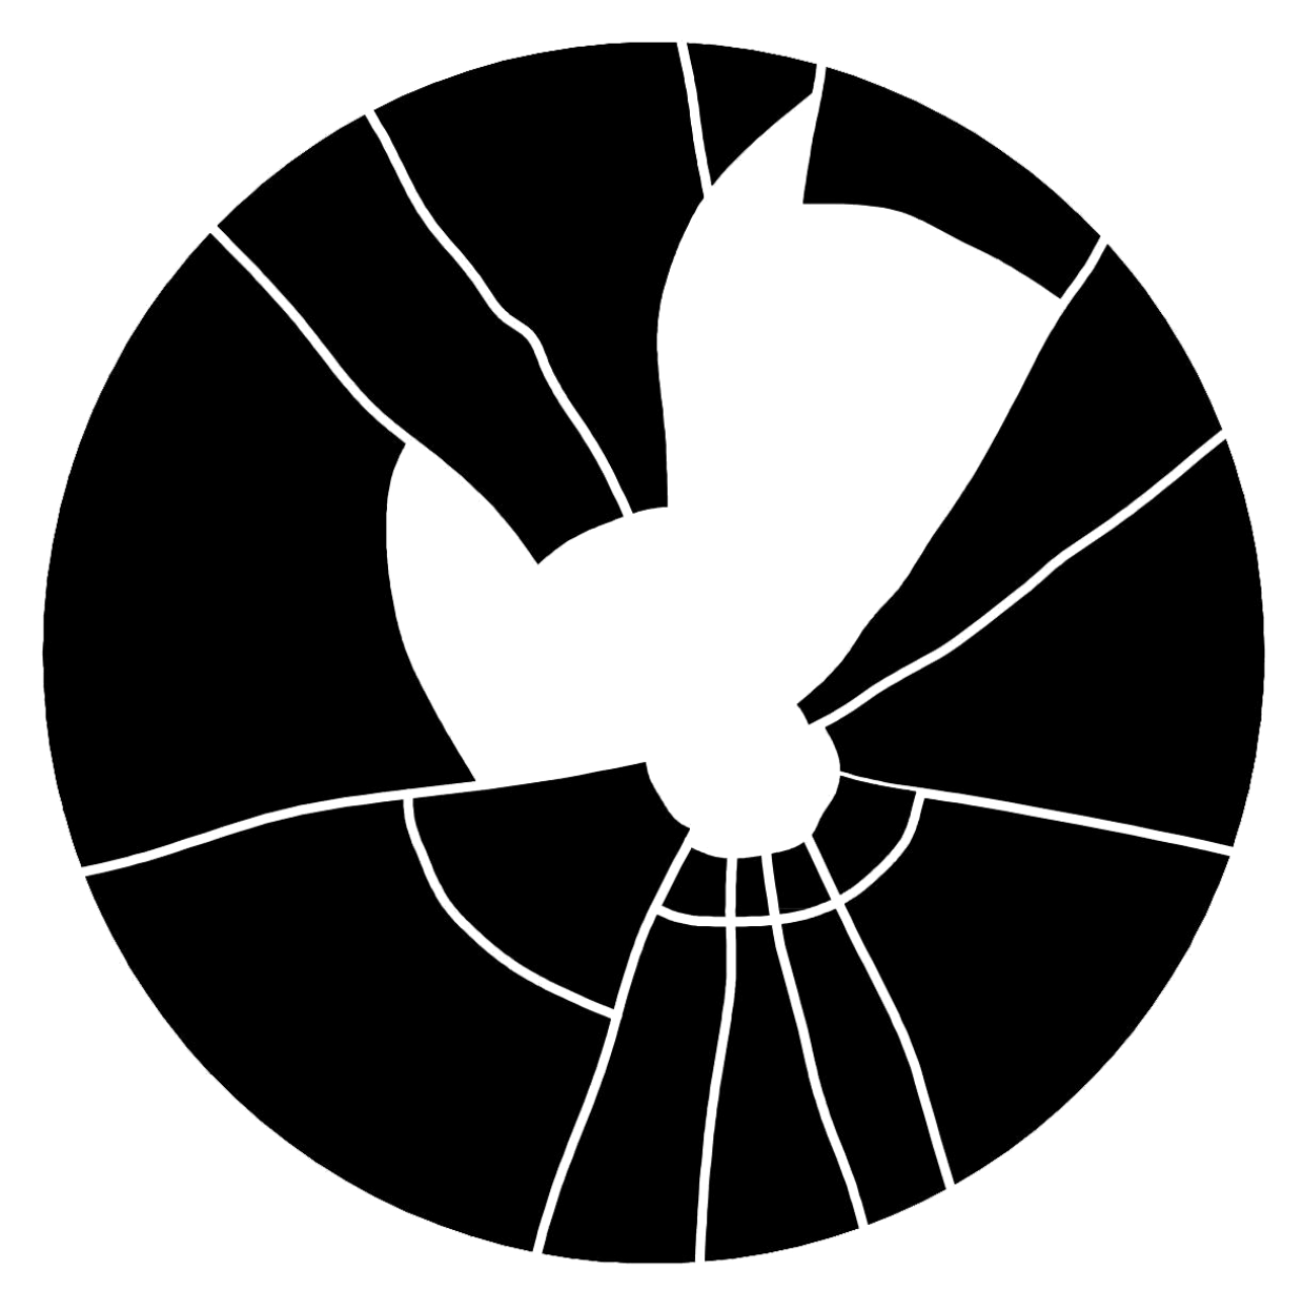
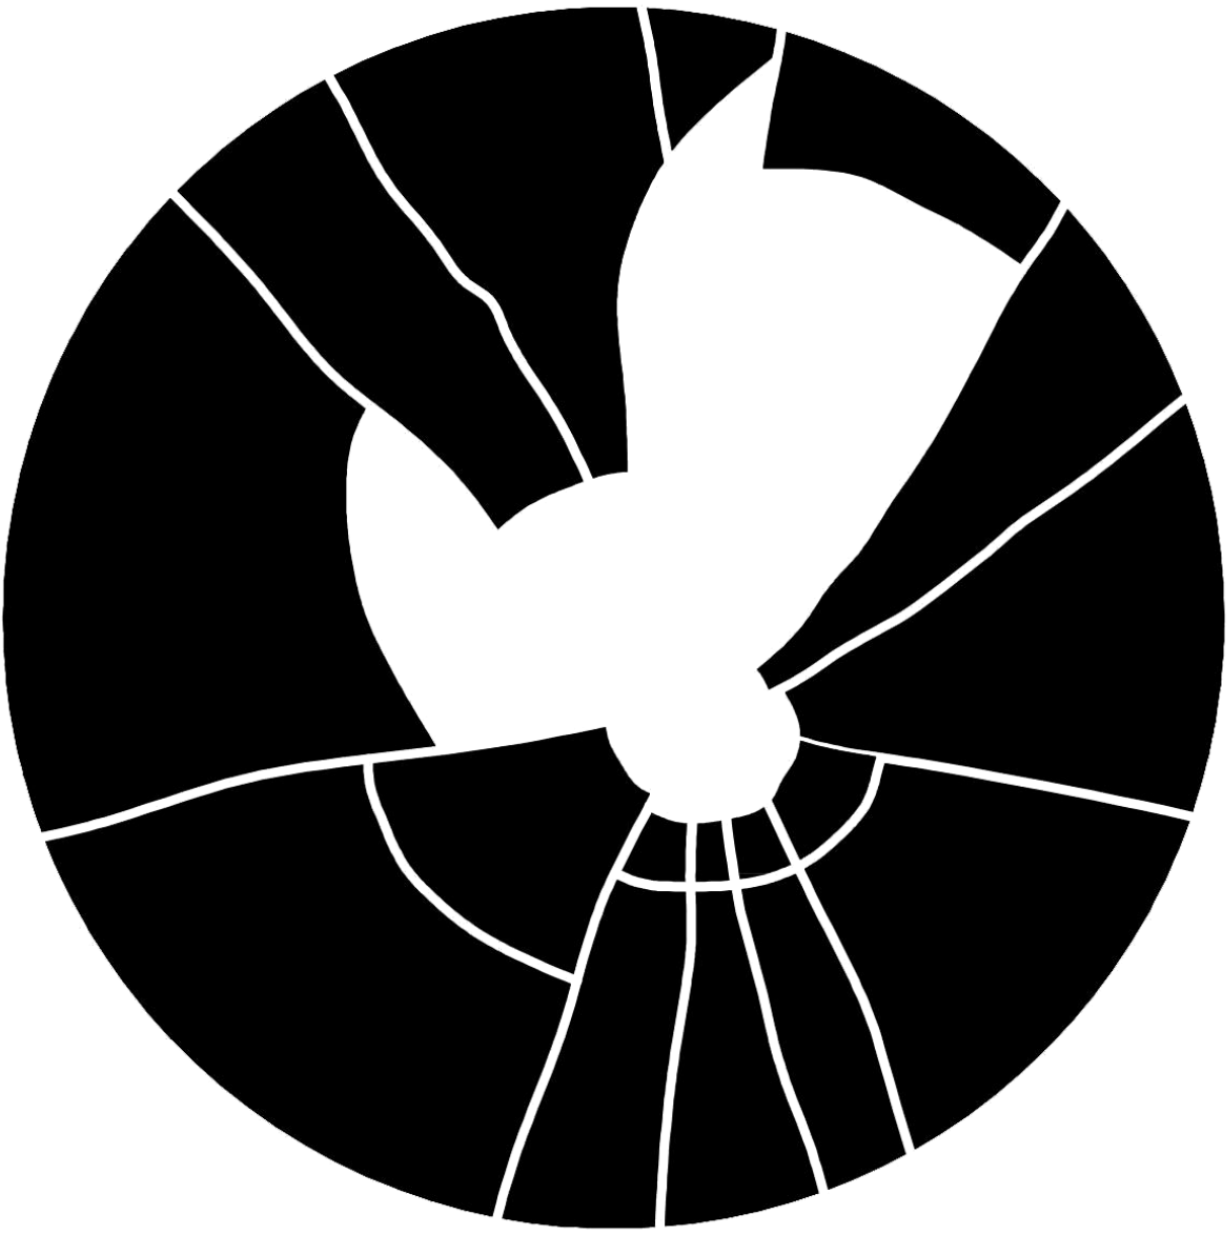
update

diff --git a/src/App.css b/src/App.css
@@ -30,8 +30,13 @@
 }
 
 .NO__welcome_img {
-  position: auto;
-  height: 100%;
+  position: absolute;
+  left: 0;
+  right: 0;
+  top: 0;
+  bottom: 0;
+  margin: auto;
+  height: 85%;
   cursor: pointer;
   z-index: 10;
 }
